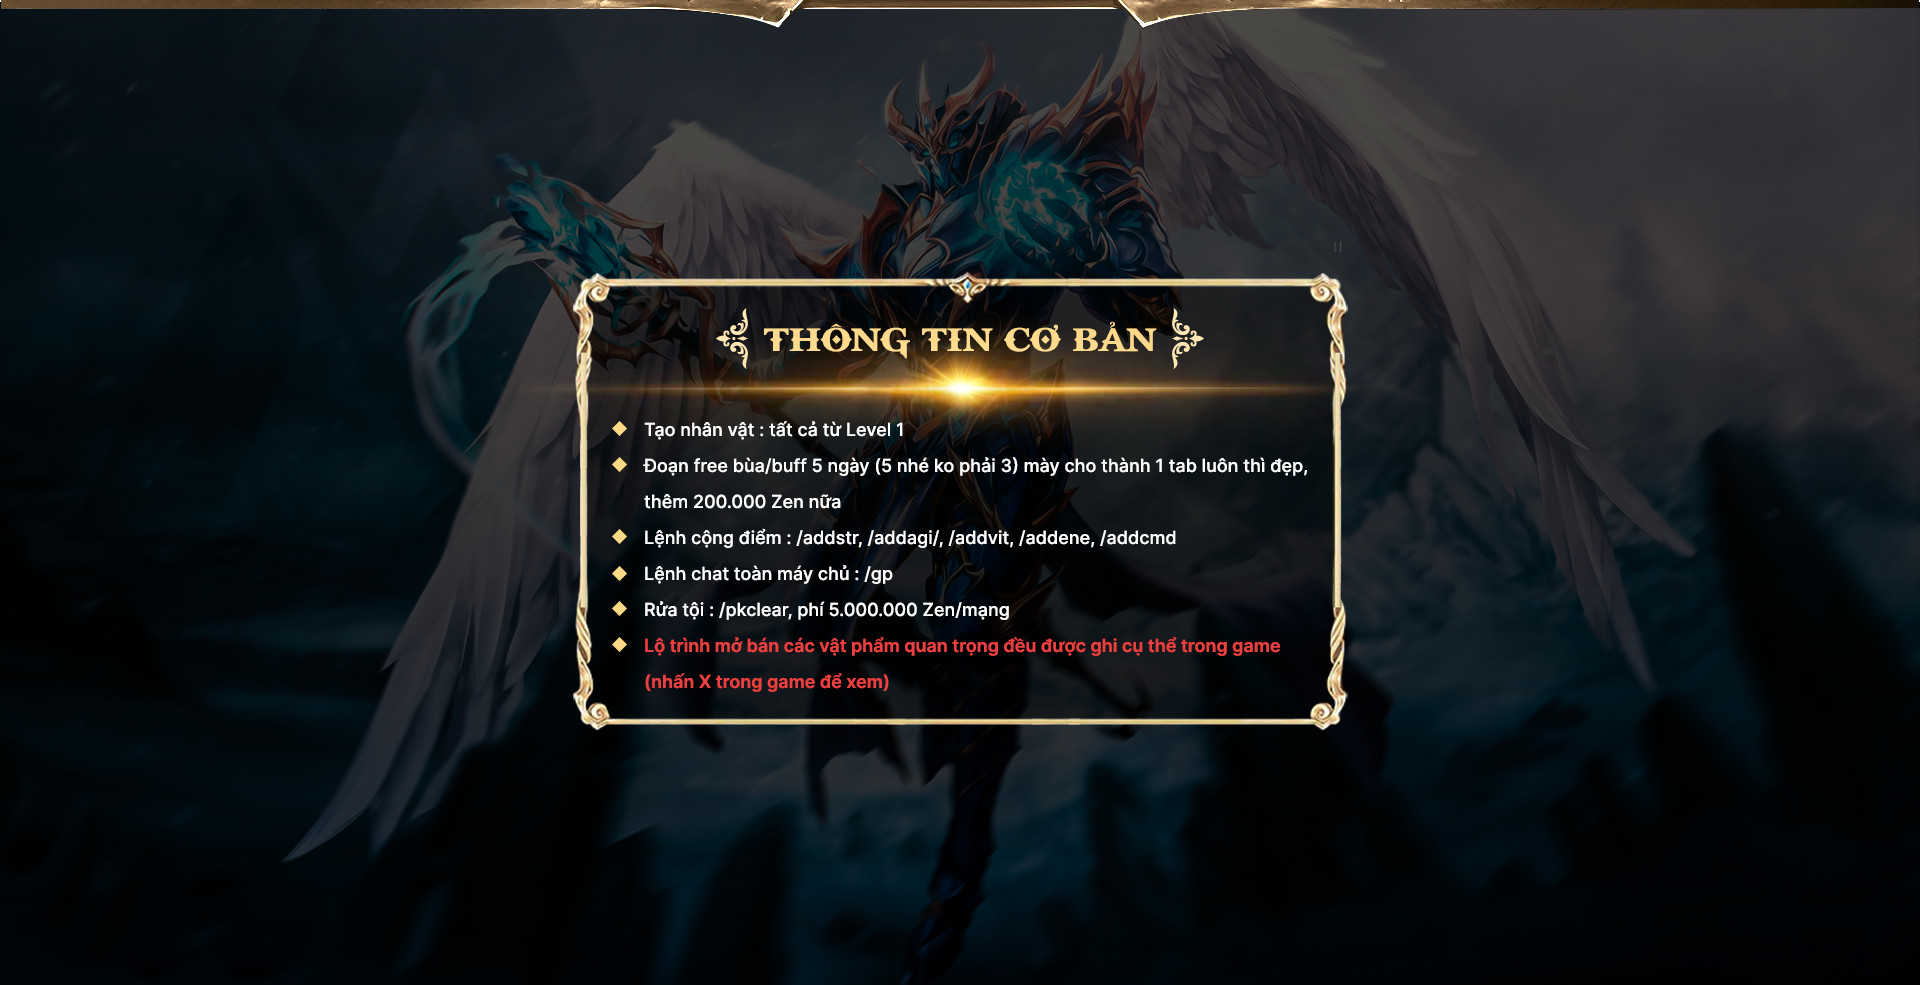
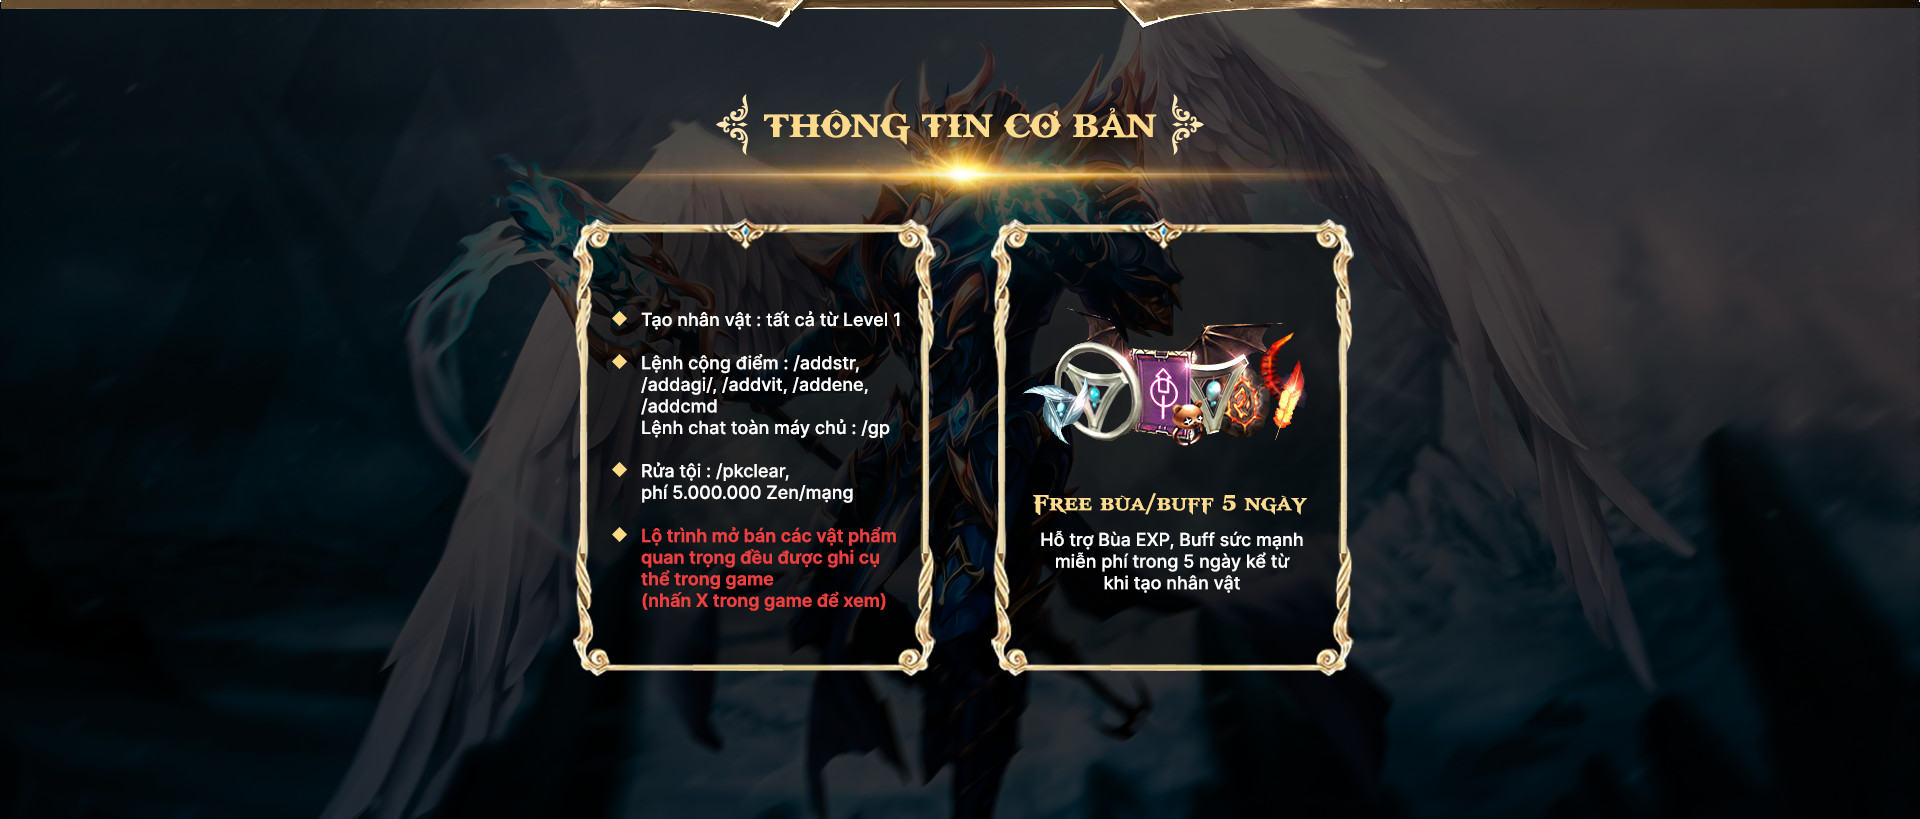
update

diff --git a/index.html b/index.html
@@ -36,6 +36,17 @@
     <a id="button">
       <img src="images/onltop.png" alt="on top" />
     </a>
+    <aside>
+      <nav>
+        <ul>
+          <a href="#server"><li>THÔNG TIN SERVER</li></a>
+          <a href="#simple"><li>THÔNG TIN CƠ BẢN</li></a>
+          <a href="#structure"><li>CẤU TRÚC MÁY CHỦ</li></a>
+          <a href="#alpha"><li>EVENT ALPHA TEST 2</li></a>
+          <a href="#openbeta"><li>EVENT OPEN BETA</li></a>
+        </ul>
+      </nav>
+    </aside>
     <header>
       <div class="logo-menu">
         <div class="d-flex justify-content-between align-items-center">
@@ -138,11 +149,21 @@
     </section>
     <div class="events">
       <div class="event-cont">
-        <img src="images/img-1.jpg" alt="Sự Kiện 1" />
-        <img src="images/img-2.jpg" alt="Sự Kiện 2" />
-        <img src="images/img-3.jpg" alt="Sự Kiện 3" />
-        <img src="images/img-4.jpg" alt="Sự Kiện 4" />
-        <img src="images/img-5.jpg" alt="Sự Kiện 5" />
+        <div id="server">
+          <img src="images/img-1.jpg" alt="Sự Kiện 1" />
+        </div>
+        <div id="simple">
+          <img src="images/img-2.jpg" alt="Sự Kiện 2" />
+        </div>
+        <div id="structure">
+          <img src="images/img-3.jpg" alt="Sự Kiện 3" />
+        </div>
+        <div id="alpha">
+          <img src="images/img-4.jpg" alt="Sự Kiện 4" />
+        </div>
+        <div id="openbeta">
+          <img src="images/img-5.jpg" alt="Sự Kiện 5" />
+        </div>
       </div>
     </div>
     <script src="js/jquery.min.js" crossorigin="anonymous"></script>

diff --git a/css/site.css b/css/site.css
@@ -35,7 +35,7 @@ header{
    z-index: 100;
 }
 header .logo-group{
-    padding-left: 50px;
+    padding-left: 30px;
 }
 
 header .logo-group a img {
@@ -259,6 +259,42 @@ header .menubar .navbar-dark .navbar-toggler {
   #button img.show {
     opacity: 1;
     visibility: visible;
+  }
+
+  aside{
+    width: 200px;
+    height: 100vh;
+    position: fixed;
+    height: 100%;
+    z-index: 50;
+    padding-top: 100px;
+    background: linear-gradient(to right, #0b0a0d 0%, rgba(11, 10, 13, 0.51) 83%, rgba(11, 10, 13, 0.5) 84%, rgba(11, 10, 13, 0) 100%);
+  }
+  aside nav{
+    font-size: 1em;
+  }
+  aside nav ul{
+    list-style:none;
+    padding-left: 20px;
+  }
+  aside nav ul a li {
+    color: #fff;
+    position:relative;
+    width:calc(100% - 1em);
+    padding:1em 0 1em 1em;
+  }
+  aside nav ul a li:hover {
+      transform:scale(1.1);
+      text-decoration: none;
+  }
+
+  aside nav ul a:hover{
+    text-decoration: none;
+  }
+ 
+  aside nav ul a{
+    color: inherit;
+    text-decoration: none;
   }
 
 
